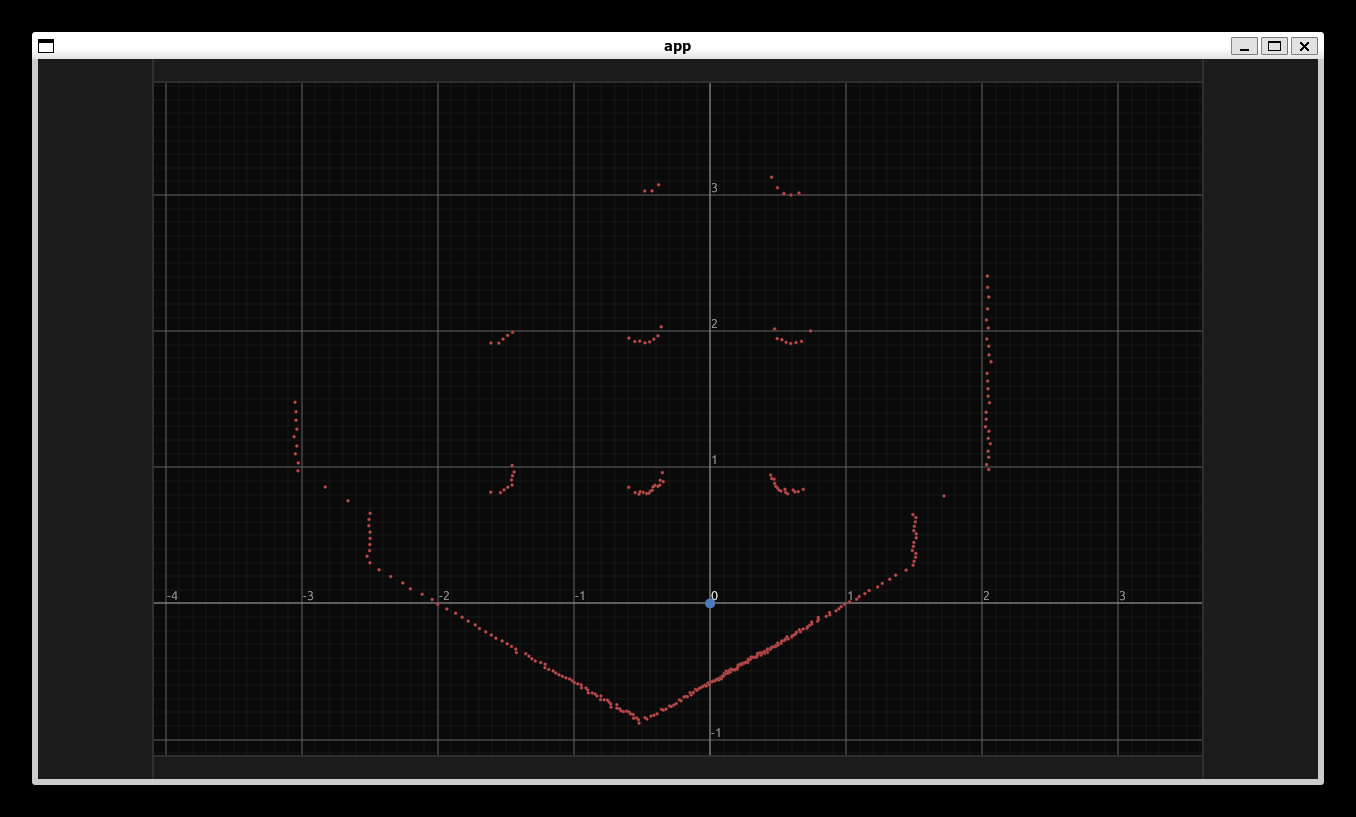
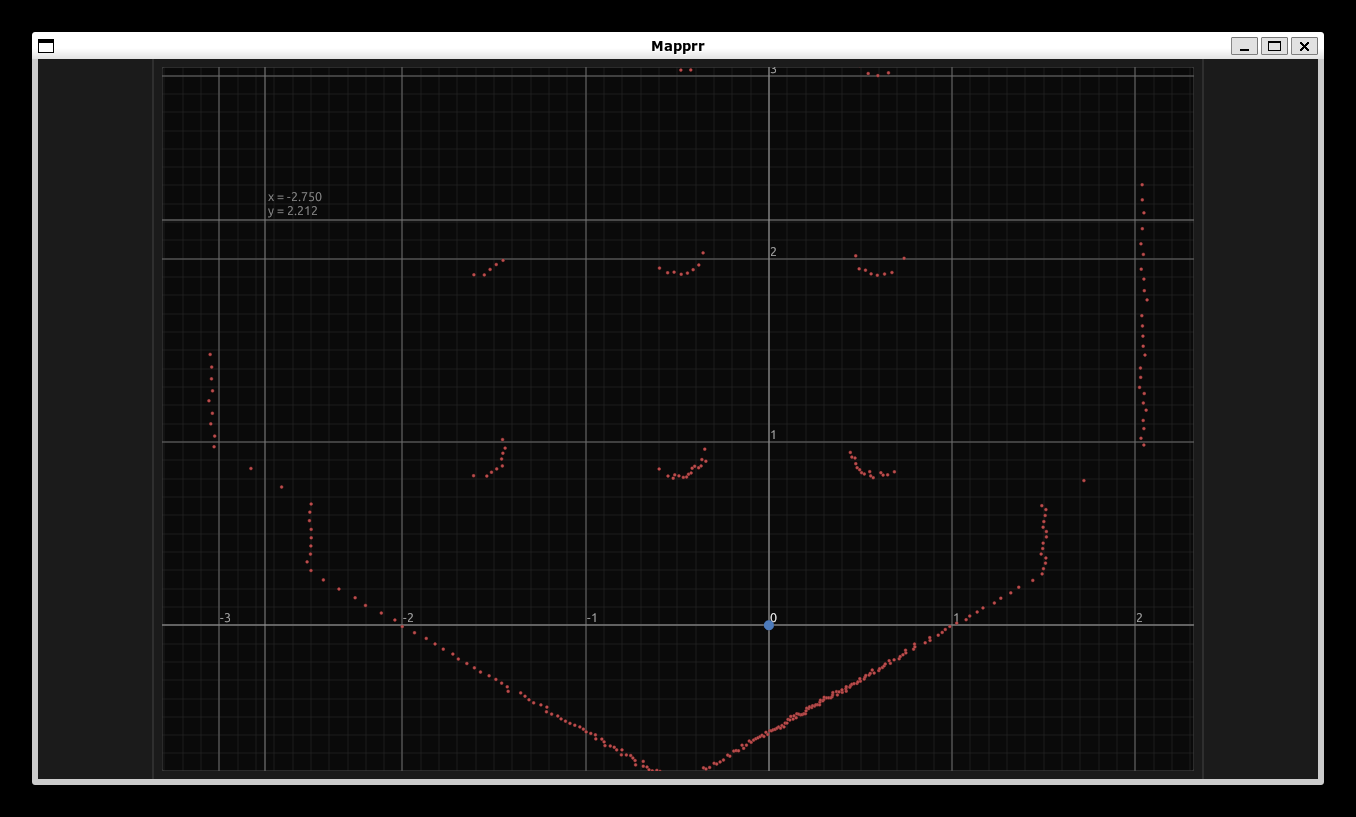
Add window name

diff --git a/src/mapprr_app.rs b/src/mapprr_app.rs
@@ -9,9 +9,17 @@ pub struct MapprrApp {}
 
 impl MapprrApp {
     pub fn run() {
+        let default_plugins = DefaultPlugins.set(WindowPlugin {
+            window: WindowDescriptor {
+                title: "Mapprr".to_string(),
+                ..Default::default()
+            },
+            ..Default::default()
+        });
+
         App::new()
             .insert_resource(Server::new())
-            .add_plugins(DefaultPlugins)
+            .add_plugins(default_plugins)
             .add_plugin(EguiPlugin)
             .add_system(Self::ui_system)
             .run();
